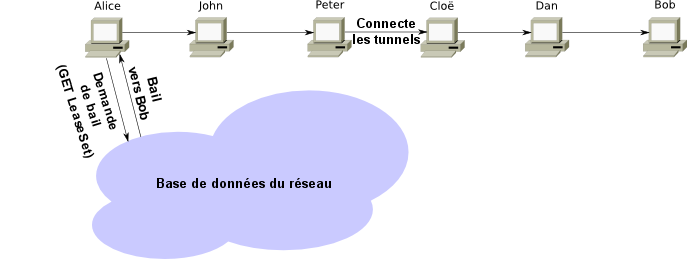
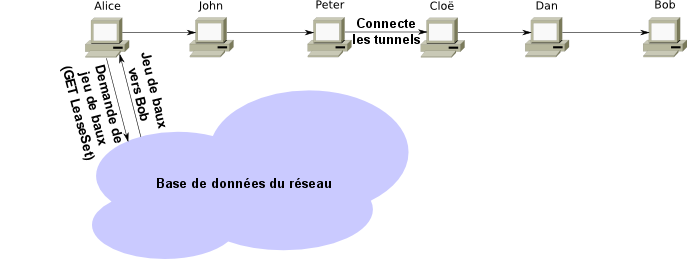
upd techintro_fr

Changed region(s): [[0.0611, 0.2162, 0.2445, 0.6178]]

diff --git a/www.i2p2/pages/techintro_fr.html b/www.i2p2/pages/techintro_fr.html
@@ -126,22 +126,20 @@ Traduction (en cours) de mars 2011. <a href="techintro.html">Version anglaise ac
     et le récepteur ("Bob" ci-dessus) crée un tunnel entrant.
     La passerelle d'un tunnel entrant peut recevoir des messages de n'importe quel autre utilisateur
     et les envoie jusqu'au point terminal ("Bob").
-    The endpoint of the outbound tunnel will need to send the message
-    on to the gateway of the inbound tunnel.
-    To do this, the sender ("Alice") adds instructions to her encrypted message.
-    Once the endpoint of the outbound tunnel decrypts the message,
-    it will have instructions to forward the message to the correct
-    inbound gateway (the gateway to "Bob").
+    Le point terminal du tunnel sortant devra pouvoir envoyer le message vers la passerelle du tunnel entrant.
+    Pour le permettre, l'expéditeur ("Alice") ajoute à son message crypté des instructions cryptées à l'intention 
+    du point terminal sortant. Une fois décryptées par celui-ci, il dispose alors des informations nécessaires 
+    au tranfert vers la bonne passerelle entrante (la passerelle vers "Bob").
   </p>
   <p>
-    A third critical concept to understand is I2P's <b>"network database"</b> (or "netDb") 
-    - a pair of algorithms used to share network metadata. The two types of metadata 
-    carried are <b>"routerInfo"</b> and <b>"leaseSets"</b> - the routerInfo gives routers the 
-    data necessary for contacting a particular router (their public keys, transport 
-    addresses, etc), while the leaseSet gives routers the information necessary 
-    for contacting a particular destination. A leaseSet contains a number of "leases".
-    Each of this leases specifies a tunnel gateway, which allows reaching a specific destination.
-    The full information contained in a lease:
+    Le troisième concept fondamental est la <b>"base de données"</b> I2P (ou "netDb"): 
+    une paire d'algorithmes utilisés pour le partage des métadonnées du réseau. Les deux types de métadonnées 
+    transportées sont la <b>"routerInfo"</b> et les <b>"Jeux de baux"</b> (leaseSets): 
+    la routerInfo donne aux routeurs les données nécessaires pour contacter un autre routeur particulier 
+    (ses clés publiques, adresse de transport, etc...), et les baux donnent au routeurs les informations 
+    nécessaires pour joindre une destination particulière. Un jeu de baux contient un certain nombre de "baux". 
+    Chacun de ces baux indique une passarelle de tunnel qui permet d'atteindre une destination particulière.
+    Détail complet des informations contenues dans un bail:
     <ul>
       <li>Inbound gateway for a tunnel that allows reaching a specific destination.</li>
       <li>Time when a tunnel expires.</li>
